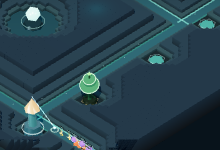
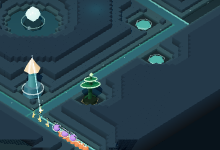
Переснять кадры 0028 на замкнутом кольце и уточнить происхождение замеров
Кольцо замкнули после первого прогона, поэтому все пять кадров и все числа пересчитаны на том же дереве: 11.2 px на единицу ширины, 35/37/36 px на башню, вписанность доски в кадр замыканием не изменилась. Отчёт называет коммит, на котором снято, и правку маршрута волны в копии.

diff --git a/docs/tasks/0028-tower-legibility.md b/docs/tasks/0028-tower-legibility.md
@@ -236,11 +236,13 @@ unknown route burrow-spine`: волна в `src/game-core/contact.ts` ссыла
 в копии же переставил три `routeId` волны на `burrow-east`. В репозитории не создано ничего, кроме
 моих двух файлов и кадров.
 
-**Что это значит для приёмки.** Все кадры в `docs/tasks/0028-tower-legibility/` сняты на committed
-`main` плюс мой файл плюс эта правка маршрута. Правка маршрута двигает только врагов по кольцу и
-не трогает ни одного пикселя карты или башен, но формально это не «чистый `main`», и сказать об
-этом честнее, чем промолчать. **Первое, что стоит сделать после сдачи: починить ссылку волны на
-маршрут, иначе игру не запустить.**
+**Что это значит для приёмки.** Все кадры и все числа в этом отчёте сняты на `208716a` (мой коммит,
+то есть текущий `main`) плюс эта правка маршрута в копии. Правка маршрута двигает только врагов по
+кольцу и не трогает ни одного пикселя карты или башен, но формально это не «чистый `main`», и сказать
+об этом честнее, чем промолчать. Масштаб пересчитан на том же дереве заново, после того как кольцо
+замкнули: 11.2 / 6.9 / 8.8 px на единицу и 35 / 37 / 36 px на башню — те же числа, что до замыкания,
+то есть вписанность доски в кадр замыканием кольца не поменялась. **Первое, что стоит сделать после
+сдачи: починить ссылку волны на маршрут, иначе игру не запустить.**
 
 **Про размер — это не только моя работа, и об этом надо сказать прямо.** Кольцевая карта вписана в
 кадр так, что доска занимает треть ширины, и при 11.2 px на единицу хаск — это 8.7 px, а дротик
@@ -263,14 +265,14 @@ unknown route burrow-spine`: волна в `src/game-core/contact.ts` ссыла
 
 ## Evidence
 
-Все кадры — кольцевая карта `main`, зум 1, камера при открытии матча, три башни на трёх нишах
-северо-восточного угла.
+Все кадры — кольцевая карта, замкнутая (`208716a`), зум 1, камера при открытии матча, три башни на
+трёх нишах северо-восточного угла, один и тот же кадр в каждой паре.
 
 - `before-three-towers-canvas.png` — три башни `0023` на тех же падах. Три точки по 7–12 px.
 - `after-three-towers-canvas.png` — то же после: 35 / 37 / 36 px, три разных контура.
 - `after-three-towers-page.png` — вся страница, HUD и док на месте.
-- `after-midwave-canvas.png` — тик 3437, пять выстрелов, одно убийство, луч от `pulse-spire` виден
-  пунктиром.
+- `after-midwave-canvas.png` — тик 279, шестнадцать врагов входящей волны, луч от `pulse-spire` в
+  полёте пунктиром. Заодно видно, о чём следующий абзац: враги на этом масштабе сливаются в пятно.
 - `after-shot-beam.png` — кадр выстрела: луч идёт из видимого кристалла в цель.
 
 Тронутые файлы: `src/client/towers.ts`, этот файл и кадры выше. `main.ts`, `shared.ts`,
